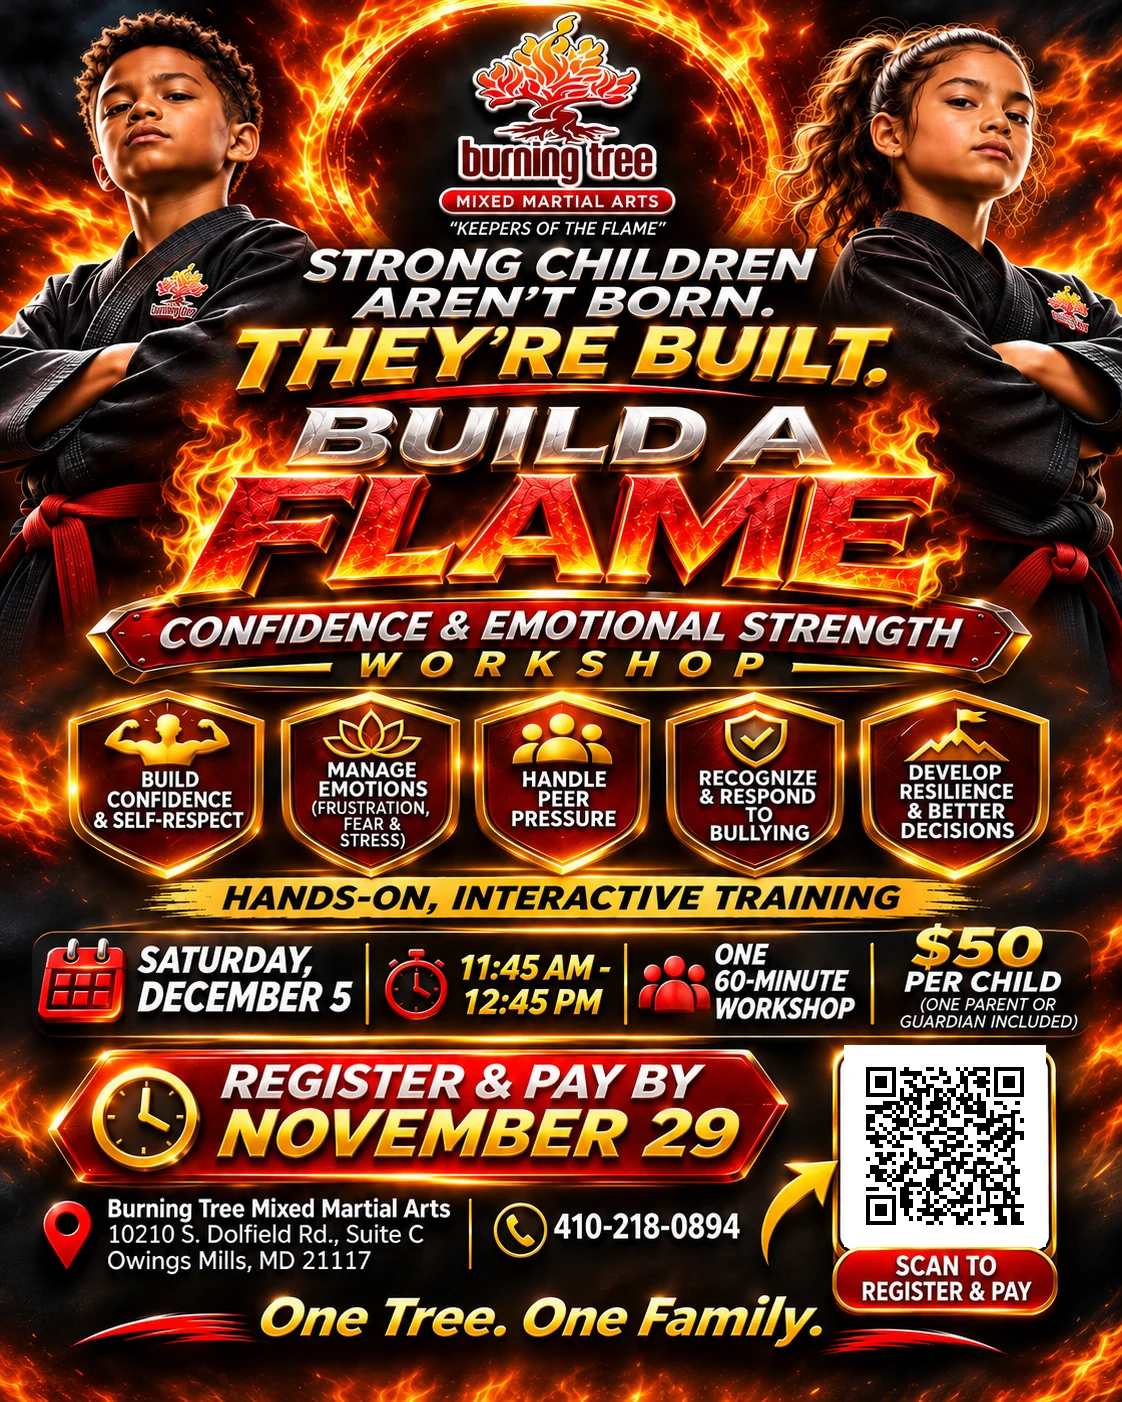
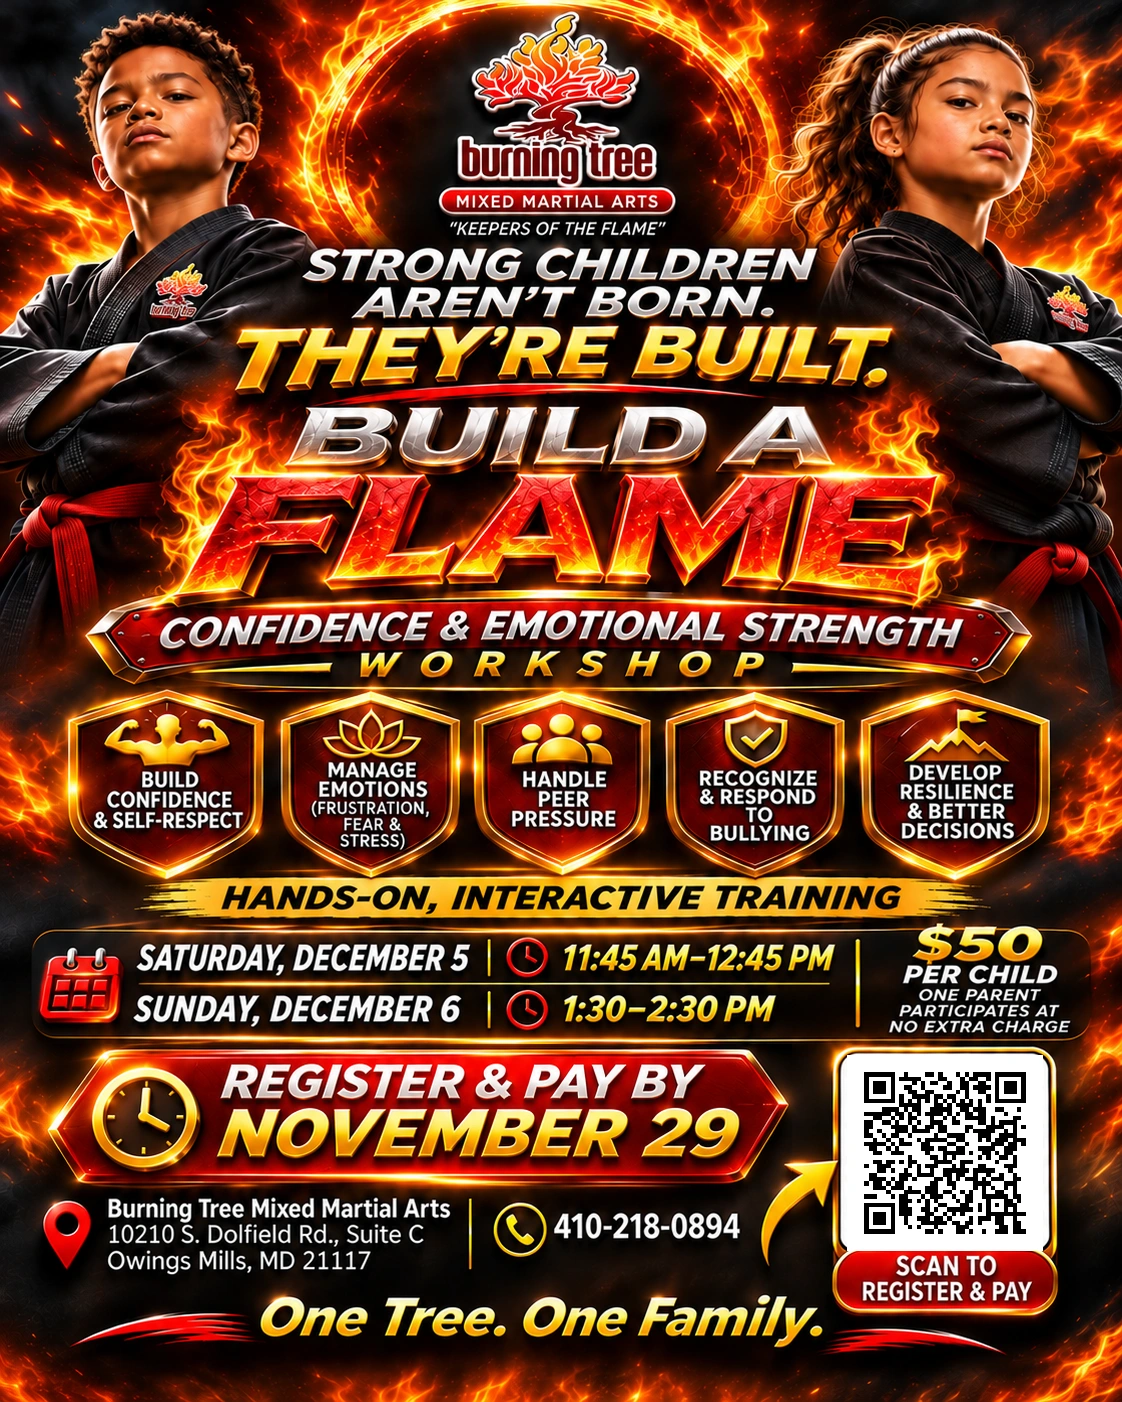
Add Sunday Build a Flame workshop registration

diff --git a/src/lib/build-a-flame.js b/src/lib/build-a-flame.js
@@ -4,7 +4,17 @@ export const FLAME_PRICE_CENTS = 5000;
 export const FLAME_DATE = "2026-12-05";
 export const FLAME_DEADLINE = Date.parse("2026-11-30T05:00:00Z"); // Nov 29, 11:59 PM EST.
 export const FLAME_DURATION_MINUTES = 60;
-export const FLAME_SESSIONS = ["one"];
+const sessions = {
+  one: {
+    date: FLAME_DATE, time: "11:45", endTime: "12:45",
+    label: "Saturday, December 5 • 11:45 AM–12:45 PM ET"
+  },
+  two: {
+    date: "2026-12-06", time: "13:30", endTime: "14:30",
+    label: "Sunday, December 6 • 1:30–2:30 PM ET"
+  }
+};
+export const FLAME_SESSIONS = Object.keys(sessions);
 
 export function json(data, status = 200) {
   return new Response(JSON.stringify(data), { status, headers: {
@@ -15,9 +25,8 @@ export function json(data, status = 200) {
 const clean = (v, max = 120) => typeof v === "string" ? v.trim().slice(0, max + 1) : "";
 const validEmail = s => /^[^\s@]+@[^\s@]+\.[^\s@]+$/.test(s) && s.length <= 254;
 
-// Confirmed single 60-minute workshop, Saturday December 5, 2026 (Eastern Time).
-export function flameTimes(_env) {
-  return { one: { time: "11:45", label: "Saturday, December 5 • 11:45 AM–12:45 PM ET" } };
+export function flameTimes() {
+  return sessions;
 }
 export function checkoutReady(env) {
   return env.BUILD_A_FLAME_REGISTRATION_ENABLED === "true" &&
@@ -45,12 +54,29 @@ export function normalizeSubmission(data) {
   return { guardian, email, phone, session, children, qty: children.length, token };
 }
 
-const SQL = [
-  "CREATE TABLE IF NOT EXISTS flame_workshop_registrations (id TEXT PRIMARY KEY, session_id TEXT NOT NULL CHECK(session_id IN ('one')), guardian_name TEXT NOT NULL, email TEXT NOT NULL, phone TEXT NOT NULL, children_json TEXT NOT NULL, qty INTEGER NOT NULL CHECK(qty BETWEEN 1 AND 6), amount_cents INTEGER NOT NULL, status TEXT NOT NULL DEFAULT 'held' CHECK(status IN ('held','checkout_open','paid','released')), stripe_session_id TEXT UNIQUE, stripe_payment_intent_id TEXT, hold_until INTEGER NOT NULL, created_at TEXT NOT NULL DEFAULT CURRENT_TIMESTAMP, paid_at TEXT, updated_at TEXT NOT NULL DEFAULT CURRENT_TIMESTAMP)",
-  "CREATE INDEX IF NOT EXISTS idx_flame_registration_status ON flame_workshop_registrations(status,created_at)"
-];
+const registrationTable = "flame_workshop_registrations";
+const createTable = table => "CREATE TABLE IF NOT EXISTS " + table +
+  " (id TEXT PRIMARY KEY, session_id TEXT NOT NULL CHECK(session_id IN ('one','two')), guardian_name TEXT NOT NULL, email TEXT NOT NULL, phone TEXT NOT NULL, children_json TEXT NOT NULL, qty INTEGER NOT NULL CHECK(qty BETWEEN 1 AND 6), amount_cents INTEGER NOT NULL, status TEXT NOT NULL DEFAULT 'held' CHECK(status IN ('held','checkout_open','paid','released')), stripe_session_id TEXT UNIQUE, stripe_payment_intent_id TEXT, hold_until INTEGER NOT NULL, created_at TEXT NOT NULL DEFAULT CURRENT_TIMESTAMP, paid_at TEXT, updated_at TEXT NOT NULL DEFAULT CURRENT_TIMESTAMP)";
+const createIndex = "CREATE INDEX IF NOT EXISTS idx_flame_registration_status ON flame_workshop_registrations(status,created_at)";
+
 export async function ensureFlameSchema(db) {
-  for (const sql of SQL) await db.prepare(sql).run();
+  const table = await db.prepare(
+    "SELECT sql FROM sqlite_master WHERE type='table' AND name=?"
+  ).bind(registrationTable).first();
+  if (!table) {
+    await db.batch([db.prepare(createTable(registrationTable)), db.prepare(createIndex)]);
+  } else if (!table.sql.includes("CHECK(session_id IN ('one','two'))")) {
+    // D1 runs the batch atomically. Copy all rows before replacing the old
+    // Saturday-only constraint, including any checkouts already in progress.
+    const revisedTable = registrationTable + "_with_sunday";
+    await db.batch([
+      db.prepare(createTable(revisedTable)),
+      db.prepare("INSERT INTO " + revisedTable + " SELECT * FROM " + registrationTable),
+      db.prepare("DROP TABLE " + registrationTable),
+      db.prepare("ALTER TABLE " + revisedTable + " RENAME TO " + registrationTable),
+      db.prepare(createIndex)
+    ]);
+  }
 }
 // Each guardian receives a distinct registration. There is NO overall workshop
 // attendance cap; the per-checkout child-count limit is only for manageable entry.
@@ -89,7 +115,7 @@ export async function reconcileFlamePayment(env, sessionId) {
       session.currency !== "usd" || session.client_reference_id !== row.id ||
       session.amount_total !== row.qty * FLAME_PRICE_CENTS ||
       Number(m.child_count) !== row.qty || m.session_id !== row.session_id ||
-      m.event_date !== FLAME_DATE || row.amount_cents !== row.qty * FLAME_PRICE_CENTS)
+      m.event_date !== sessions[row.session_id]?.date || row.amount_cents !== row.qty * FLAME_PRICE_CENTS)
     throw Error("Workshop checkout does not match the saved registration");
   if (session.payment_status !== "paid")
     return { confirmed: false, pending: true, session: row.session_id };
@@ -100,5 +126,5 @@ export async function reconcileFlamePayment(env, sessionId) {
     "SELECT status FROM flame_workshop_registrations WHERE id=?"
   ).bind(row.id).first();
   if (updated?.status !== "paid") throw Error("Paid checkout requires manual registration reconciliation");
-  return { confirmed: true, quantity: row.qty, session: row.session_id, amountCents: row.amount_cents };
+  return { confirmed: true, quantity: row.qty, session: row.session_id, sessionLabel: sessions[row.session_id].label, amountCents: row.amount_cents };
 }

diff --git a/src/pages/api/build-a-flame.js b/src/pages/api/build-a-flame.js
@@ -36,10 +36,10 @@ export async function GET({ request, locals }) {
       return json({ confirmed: false, error: "Payment verification is temporarily unavailable. Keep your Stripe receipt; contact 410-218-0894 before paying again." }, 503);
     }
   }
-  const times = flameTimes(env);
+  const times = flameTimes();
   const ready = checkoutReady(env) && !deadlinePassed();
   const sessions = FLAME_SESSIONS.map(id => ({
-    id, label: times?.[id]?.label || "Saturday, December 5 • 11:45 AM–12:45 PM ET"
+    id, label: times[id].label
   }));
   if (env.LIVE_TRIAL_DB) {
     try {
@@ -93,19 +93,20 @@ export async function POST({ request, locals }) {
   if (!savedRegistration) return json({ error: "Could not save registration. No payment was started." }, 503);
 
   const price = row.qty * FLAME_PRICE_CENTS;
+  const workshop = flameTimes()[row.session];
   const params = new URLSearchParams({
     mode: "payment",
     "allowed_payment_method_types[0]": "card",
     "line_items[0][price_data][currency]": "usd",
     "line_items[0][price_data][unit_amount]": String(FLAME_PRICE_CENTS),
-    "line_items[0][price_data][product_data][name]": "Build a Flame — Confidence & Emotional Strength Workshop — " + flameTimes(env)[row.session].label,
+    "line_items[0][price_data][product_data][name]": "Build a Flame — Confidence & Emotional Strength Workshop — " + workshop.label,
     "line_items[0][quantity]": String(row.qty),
     client_reference_id: id,
     customer_email: row.email,
     expires_at: String(Math.min(now + 35 * 60, Math.floor(FLAME_DEADLINE / 1000))),
     "metadata[btmma_source]": FLAME_SOURCE,
     "metadata[registration_id]": id,
-    "metadata[event_date]": FLAME_DATE,
+    "metadata[event_date]": workshop.date,
     "metadata[session_id]": row.session,
     "metadata[child_count]": String(row.qty),
     "payment_intent_data[metadata][btmma_source]": FLAME_SOURCE,
